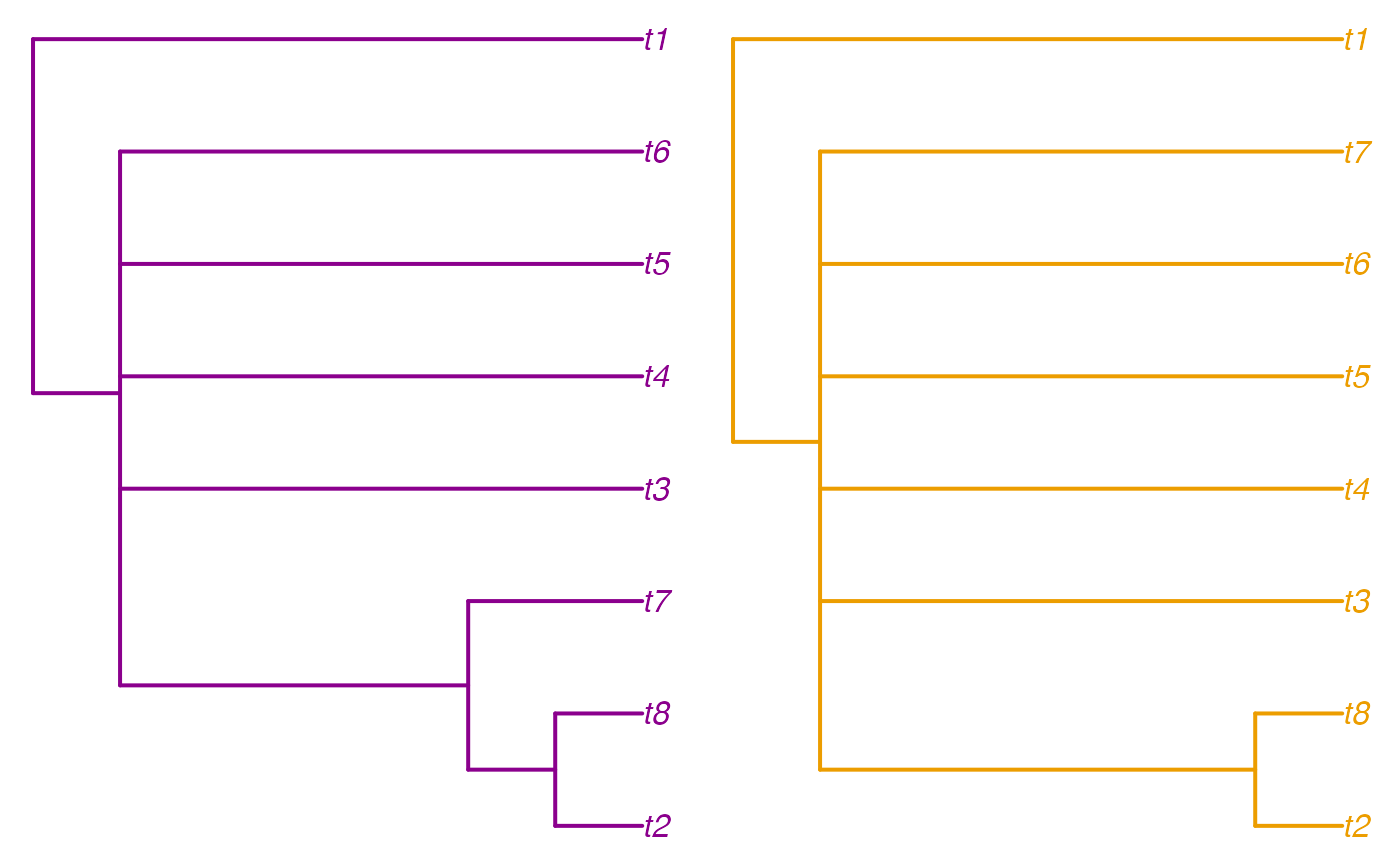
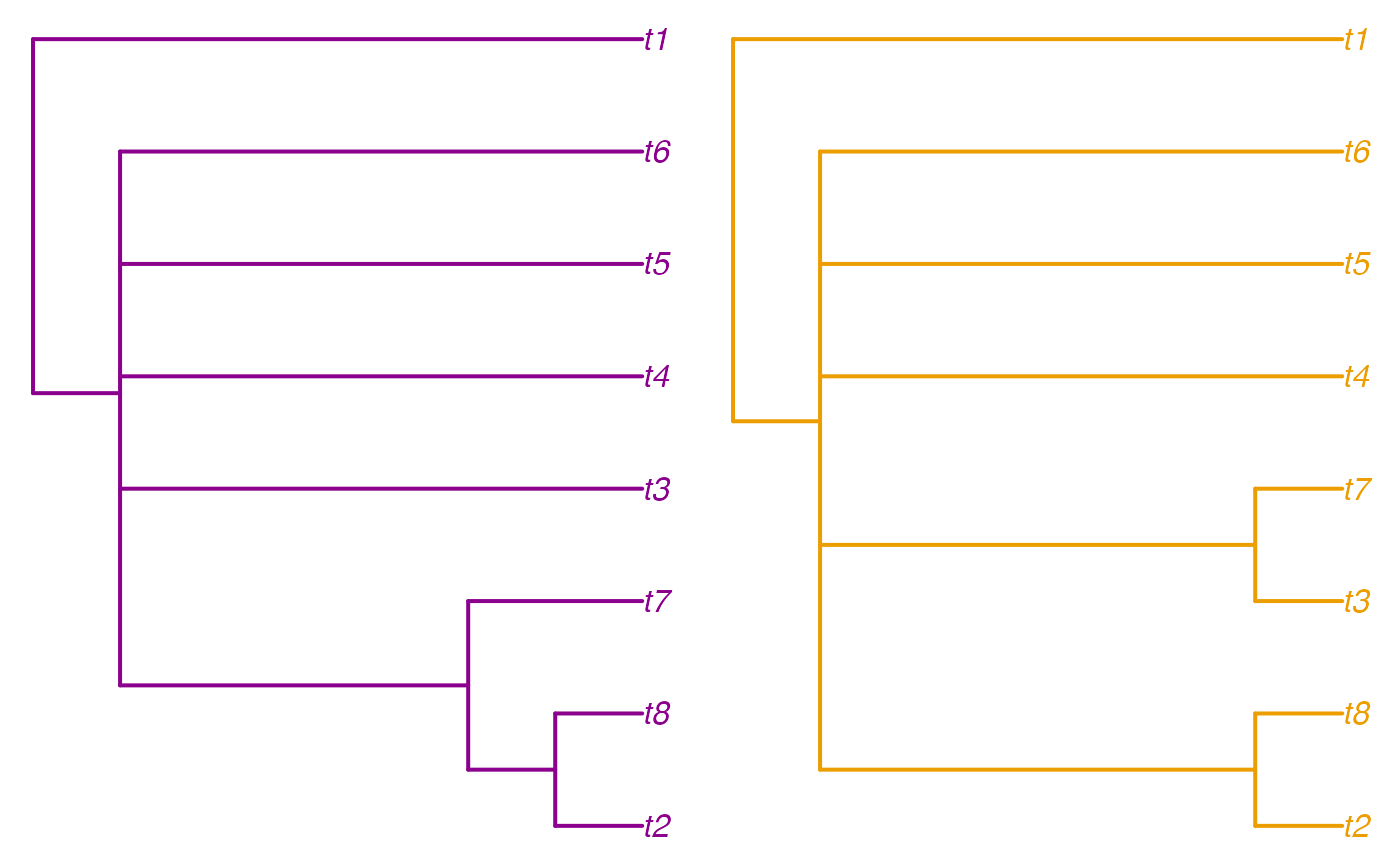
Built site for TreeDist: 2.1.1@25f6e48

diff --git a/articles/treespace.html b/articles/treespace.html
@@ -203,7 +203,7 @@ mapping &lt;- sammon$points</code></pre>
 <span class="va">pamSil</span> <span class="op">&lt;-</span> <span class="va">pamSils</span><span class="op">[</span><span class="va">bestPam</span><span class="op">]</span>
 <span class="va">pamCluster</span> <span class="op">&lt;-</span> <span class="va">pamClusters</span><span class="op">[[</span><span class="va">bestPam</span><span class="op">]</span><span class="op">]</span><span class="op">$</span><span class="va">cluster</span>
 
-<span class="va">hTree</span> <span class="op">&lt;-</span> <span class="fu">protoclust</span><span class="fu">::</span><span class="fu"><a href="https://rdrr.io/pkg/protoclust/man/protoclust.html">protoclust</a></span><span class="op">(</span><span class="va">distances</span><span class="op">)</span>
+<span class="va">hTree</span> <span class="op">&lt;-</span> <span class="fu">protoclust</span><span class="op">(</span><span class="va">distances</span><span class="op">)</span>
 <span class="va">hClusters</span> <span class="op">&lt;-</span> <span class="fu"><a href="https://rdrr.io/r/base/lapply.html">lapply</a></span><span class="op">(</span><span class="va">possibleClusters</span>, <span class="kw">function</span> <span class="op">(</span><span class="va">k</span><span class="op">)</span> <span class="fu"><a href="https://rdrr.io/r/stats/cutree.html">cutree</a></span><span class="op">(</span><span class="va">hTree</span>, k <span class="op">=</span> <span class="va">k</span><span class="op">)</span><span class="op">)</span>
 <span class="va">hSils</span> <span class="op">&lt;-</span> <span class="fu"><a href="https://rdrr.io/r/base/lapply.html">vapply</a></span><span class="op">(</span><span class="va">hClusters</span>, <span class="kw">function</span> <span class="op">(</span><span class="va">hCluster</span><span class="op">)</span> <span class="op">{</span>
   <span class="fu"><a href="https://rdrr.io/r/base/mean.html">mean</a></span><span class="op">(</span><span class="fu">cluster</span><span class="fu">::</span><span class="fu"><a href="https://rdrr.io/pkg/cluster/man/silhouette.html">silhouette</a></span><span class="op">(</span><span class="va">hCluster</span>, <span class="va">distances</span><span class="op">)</span><span class="op">[</span>, <span class="fl">3</span><span class="op">]</span><span class="op">)</span>
@@ -236,10 +236,12 @@ mapping &lt;- sammon$points</code></pre>
 <code class="sourceCode R"><span class="fu"><a href="https://rdrr.io/r/graphics/par.html">par</a></span><span class="op">(</span>mfrow <span class="op">=</span> <span class="fu"><a href="https://rdrr.io/r/base/c.html">c</a></span><span class="op">(</span><span class="fl">1</span>, <span class="fl">2</span><span class="op">)</span>, mar <span class="op">=</span> <span class="fu"><a href="https://rdrr.io/r/base/rep.html">rep</a></span><span class="op">(</span><span class="fl">0.2</span>, <span class="fl">4</span><span class="op">)</span><span class="op">)</span>
 <span class="va">col1</span> <span class="op">&lt;-</span> <span class="va">spectrum</span><span class="op">[</span><span class="fu"><a href="https://rdrr.io/r/base/mean.html">mean</a></span><span class="op">(</span><span class="va">treeNumbers</span><span class="op">[</span><span class="va">cluster</span> <span class="op">==</span> <span class="fl">1</span><span class="op">]</span><span class="op">)</span><span class="op">]</span>
 <span class="va">col2</span> <span class="op">&lt;-</span> <span class="va">spectrum</span><span class="op">[</span><span class="fu"><a href="https://rdrr.io/r/base/mean.html">mean</a></span><span class="op">(</span><span class="va">treeNumbers</span><span class="op">[</span><span class="va">cluster</span> <span class="op">==</span> <span class="fl">2</span><span class="op">]</span><span class="op">)</span><span class="op">]</span>
-<span class="fu"><a href="https://rdrr.io/r/graphics/plot.default.html">plot</a></span><span class="op">(</span><span class="fu">consensus</span><span class="op">(</span><span class="va">trees</span><span class="op">[</span><span class="va">cluster</span> <span class="op">==</span> <span class="fl">1</span><span class="op">]</span><span class="op">)</span>, edge.color <span class="op">=</span> <span class="va">col1</span>, edge.width <span class="op">=</span> <span class="fl">2</span>, tip.color <span class="op">=</span> <span class="va">col1</span><span class="op">)</span>
-<span class="fu"><a href="https://rdrr.io/r/graphics/plot.default.html">plot</a></span><span class="op">(</span><span class="fu">consensus</span><span class="op">(</span><span class="va">trees</span><span class="op">[</span><span class="va">cluster</span> <span class="op">==</span> <span class="fl">2</span><span class="op">]</span><span class="op">)</span>, edge.color <span class="op">=</span> <span class="va">col2</span>, edge.width <span class="op">=</span> <span class="fl">2</span>, tip.color <span class="op">=</span> <span class="va">col2</span><span class="op">)</span></code></pre></div>
+<span class="fu"><a href="https://rdrr.io/r/graphics/plot.default.html">plot</a></span><span class="op">(</span><span class="fu">consensus</span><span class="op">(</span><span class="va">trees</span><span class="op">[</span><span class="va">cluster</span> <span class="op">==</span> <span class="fl">1</span><span class="op">]</span>, p <span class="op">=</span> <span class="fl">0.5</span><span class="op">)</span>,
+     edge.color <span class="op">=</span> <span class="va">col1</span>, edge.width <span class="op">=</span> <span class="fl">2</span>, tip.color <span class="op">=</span> <span class="va">col1</span><span class="op">)</span>
+<span class="fu"><a href="https://rdrr.io/r/graphics/plot.default.html">plot</a></span><span class="op">(</span><span class="fu">consensus</span><span class="op">(</span><span class="va">trees</span><span class="op">[</span><span class="va">cluster</span> <span class="op">==</span> <span class="fl">2</span><span class="op">]</span>, p <span class="op">=</span> <span class="fl">0.5</span><span class="op">)</span>,
+     edge.color <span class="op">=</span> <span class="va">col2</span>, edge.width <span class="op">=</span> <span class="fl">2</span>, tip.color <span class="op">=</span> <span class="va">col2</span><span class="op">)</span></code></pre></div>
 <p><img src="treespace_files/figure-html/consensus-1.png" width="700" style="display: block; margin: auto;"></p>
-<p>In this case, we don’t learn much, though trees in one cluster are united by the position of <code>t7</code>.</p>
+<p>Here, we learn that the two clusters are distinguished by the position of <code>t7</code>.</p>
 </div>
 <div id="validating-a-mapping" class="section level3">
 <h3 class="hasAnchor">

diff --git a/articles/Using-TreeDist.html b/articles/Using-TreeDist.html
@@ -171,12 +171,12 @@
 
 <span class="fu"><a href="../reference/TreeDistance.html">TreeDistance</a></span><span class="op">(</span><span class="va">oneTree</span>, <span class="va">twoTrees</span><span class="op">)</span></code></pre></div>
 <pre><code>##       one       two 
-## 0.6389365 0.5460669</code></pre>
+## 0.8393910 0.8149102</code></pre>
 <div class="sourceCode" id="cb8"><pre class="downlit sourceCode r">
 <code class="sourceCode R"><span class="fu"><a href="../reference/TreeDistance.html">TreeDistance</a></span><span class="op">(</span><span class="va">twoTrees</span>, <span class="va">threeTrees</span><span class="op">)</span></code></pre></div>
 <pre><code>##             a         b         c
-## one 0.8822134 0.8388897 0.8232365
-## two 0.6948875 0.7208338 0.7931303</code></pre>
+## one 0.5212578 0.8050161 0.6910444
+## two 0.8414045 0.8317100 0.7573641</code></pre>
 </div>
 </div>
 <div id="visualizing-a-matching" class="section level2">
